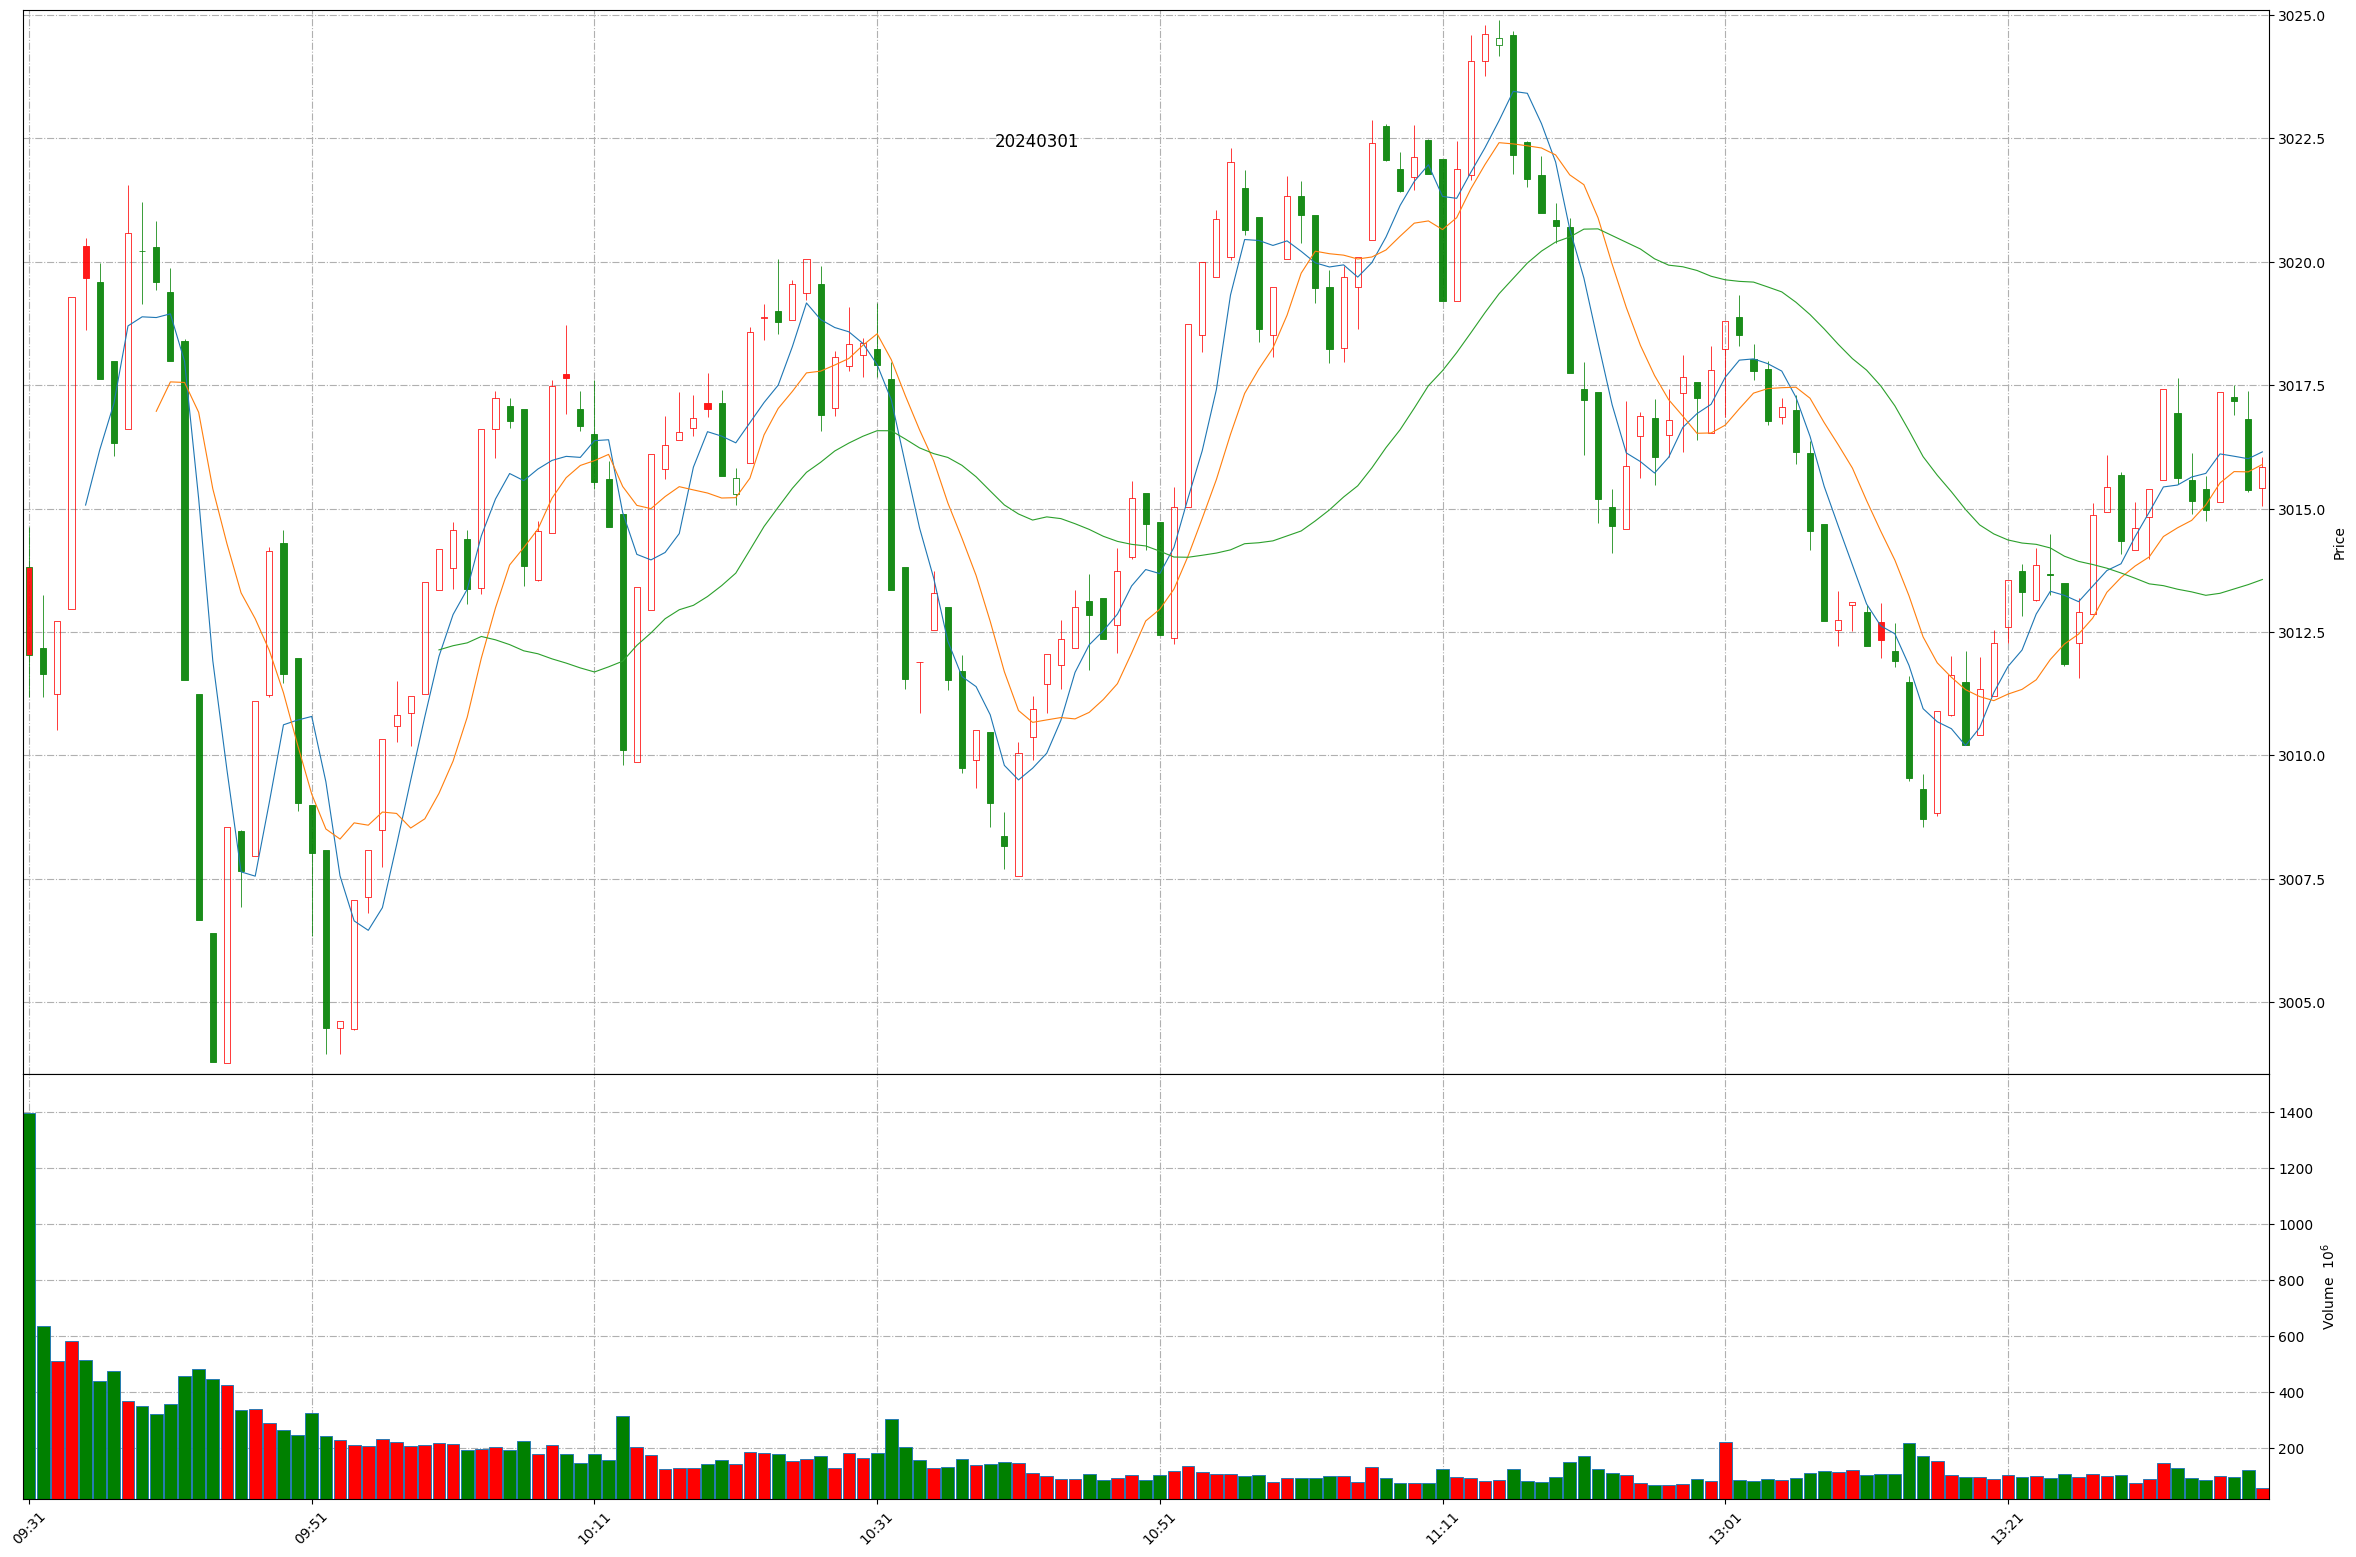
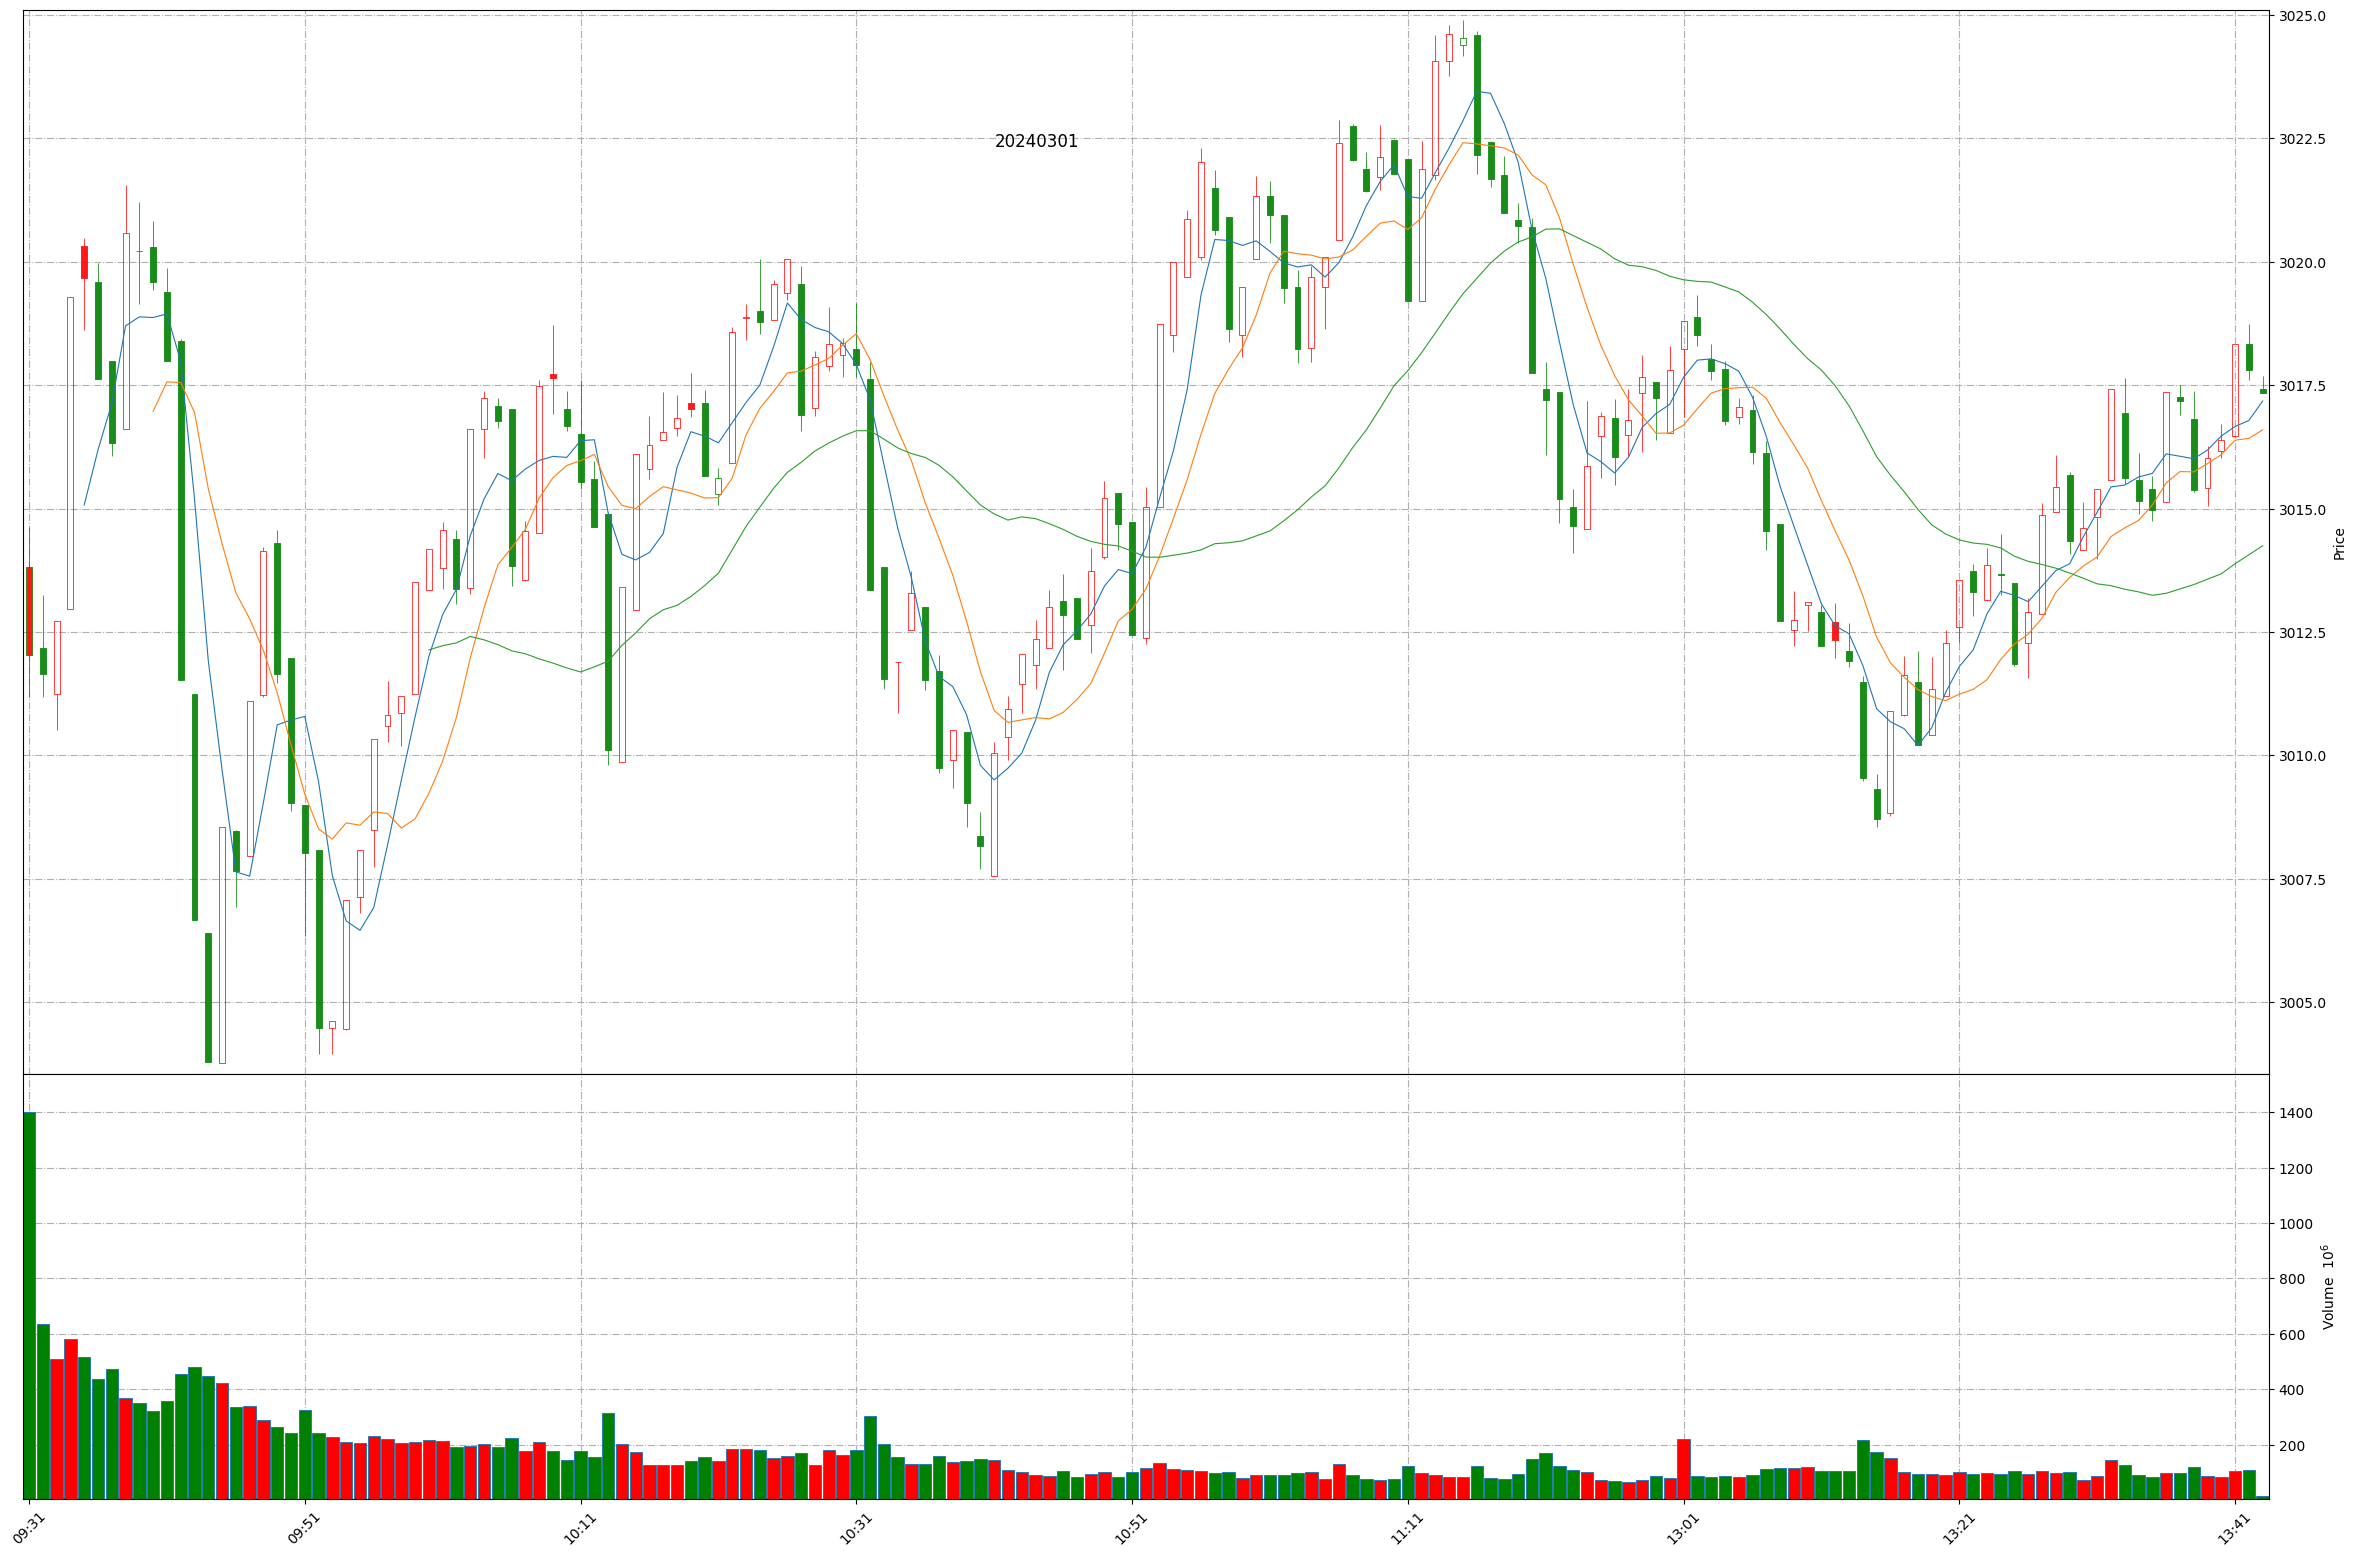
Github action update at 2024-03-01 13:42:40.

Changed region(s): [[0.1859, 0.0308, 0.9605, 0.5549], [0.031, 0.8632, 0.9605, 0.9865], [0.031, 0.1541, 0.1859, 0.6782]]

diff --git a/README.md b/README.md
@@ -1,11 +1,11 @@
 
 # Daily-A-share-market-quotes 每日 A 股指数（5min 更新）- 20240301
 
-### 上证指数 20240301 13:39
+### 上证指数 20240301 13:42
 ![](./fig/2024/3/20240301-sh000001.png)
 
-### 深证成指 20240301 13:39
+### 深证成指 20240301 13:42
 ![](./fig/2024/3/20240301-sz399001.png)
 
-### 北证50 20240301 13:39
+### 北证50 20240301 13:42
 ![](./fig/2024/3/20240301-bj899050.png)
